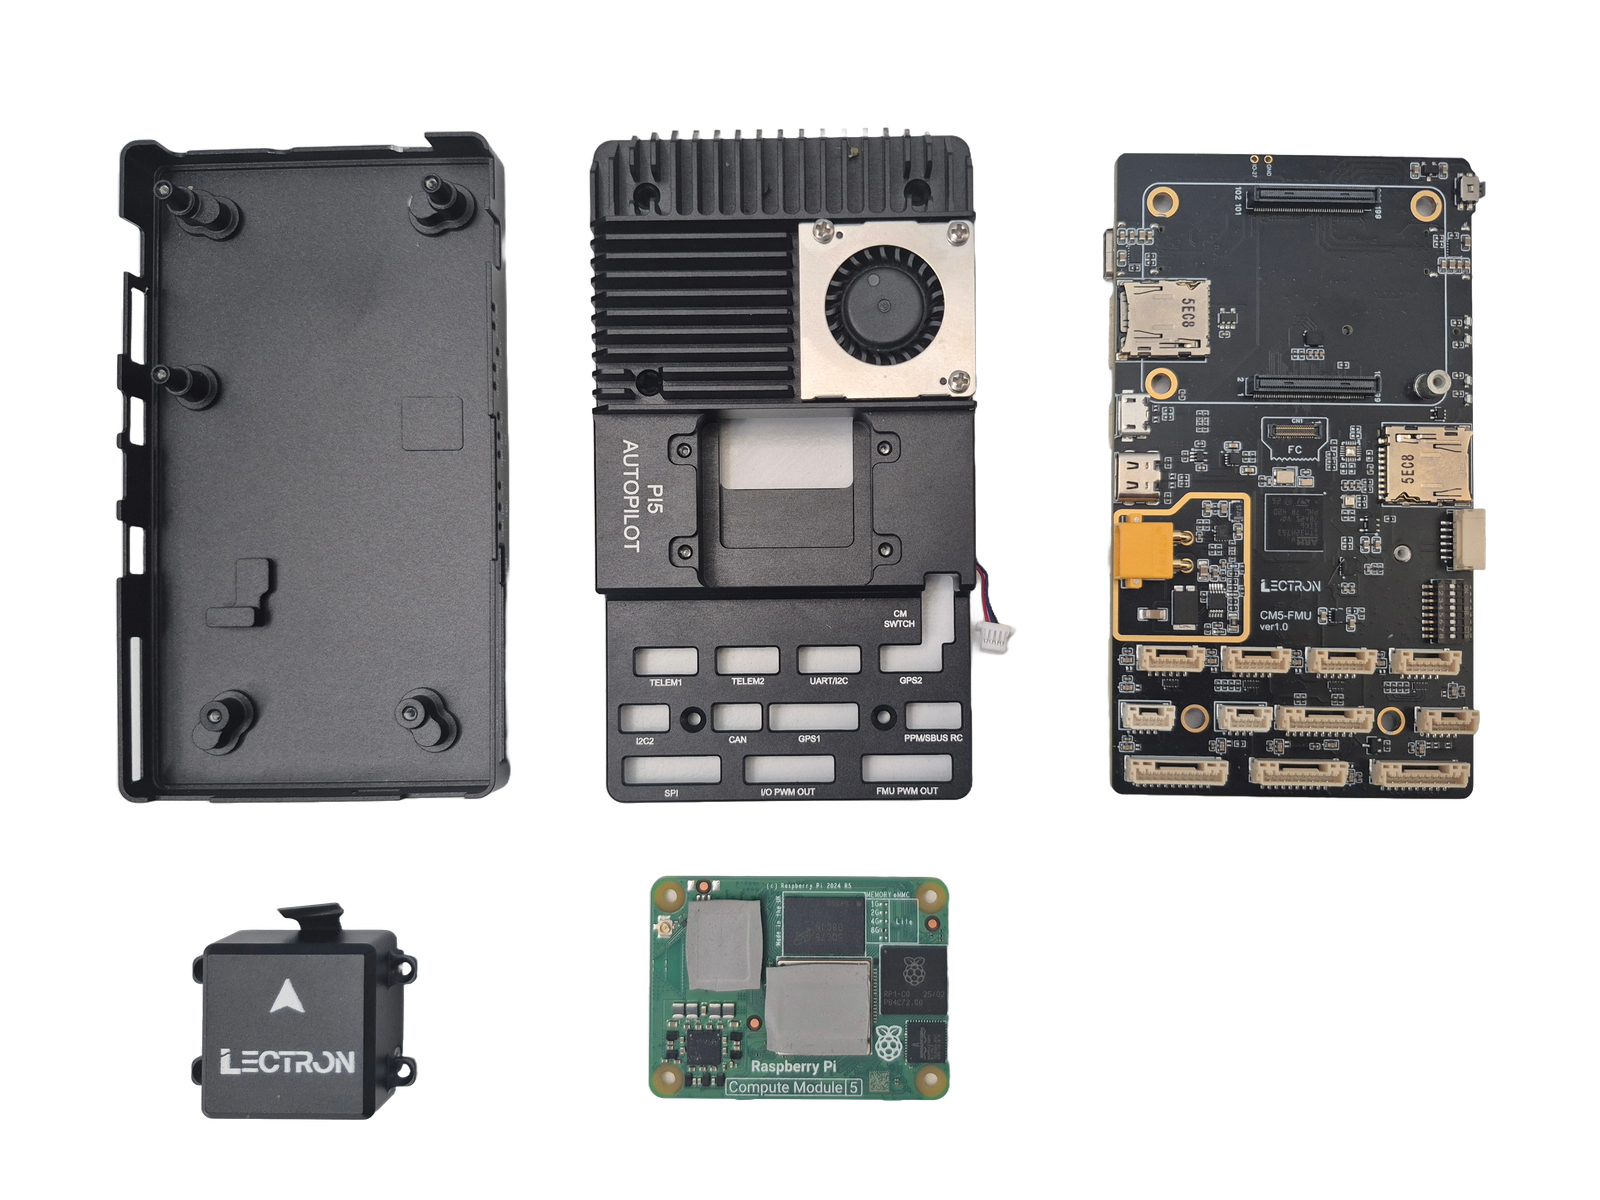
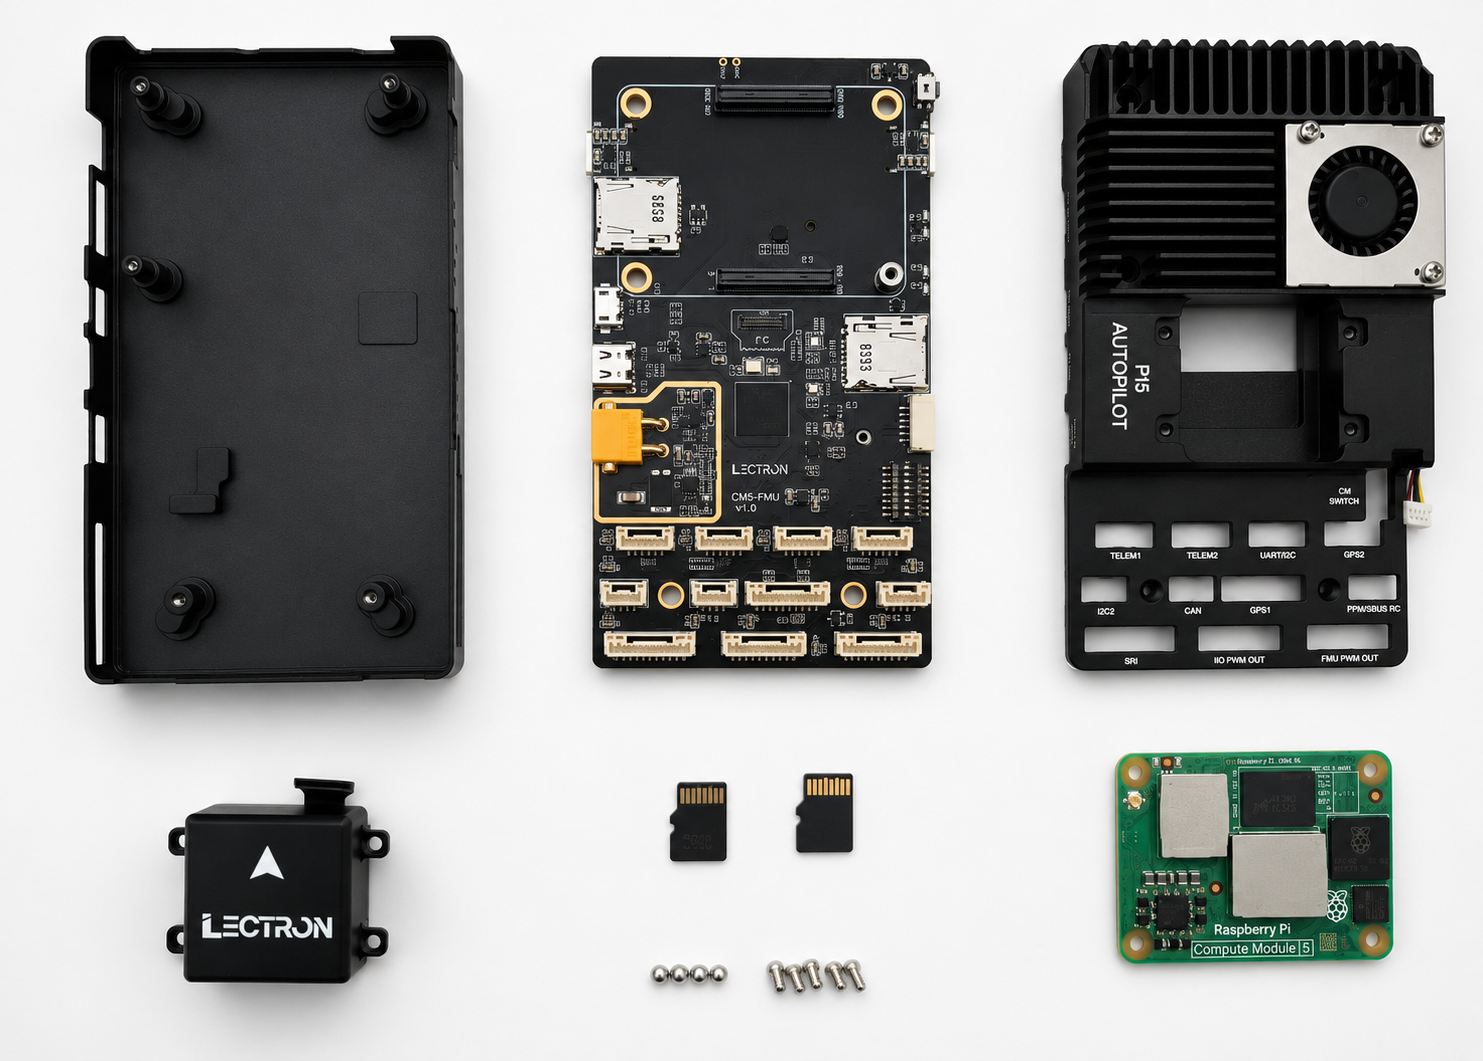
Deployed 0bcce83 with MkDocs version: 1.6.1

diff --git a/md/raspberry/setup/index.html b/md/raspberry/setup/index.html
@@ -953,6 +953,84 @@
   
 </li>
       
+        <li class="md-nav__item">
+  <a href="#fmu-firmware-installation" class="md-nav__link">
+    <span class="md-ellipsis">
+      
+        FMU Firmware Installation
+      
+    </span>
+  </a>
+  
+    <nav class="md-nav" aria-label="FMU Firmware Installation">
+      <ul class="md-nav__list">
+        
+          <li class="md-nav__item">
+  <a href="#connection-settings" class="md-nav__link">
+    <span class="md-ellipsis">
+      
+        Connection Settings
+      
+    </span>
+  </a>
+  
+</li>
+        
+          <li class="md-nav__item">
+  <a href="#1-io-chip-flashing-f103" class="md-nav__link">
+    <span class="md-ellipsis">
+      
+        1. IO Chip Flashing (F103)
+      
+    </span>
+  </a>
+  
+</li>
+        
+          <li class="md-nav__item">
+  <a href="#2-fmu-chip-flashing-h753" class="md-nav__link">
+    <span class="md-ellipsis">
+      
+        2. FMU Chip Flashing (H753)
+      
+    </span>
+  </a>
+  
+    <nav class="md-nav" aria-label="2. FMU Chip Flashing (H753)">
+      <ul class="md-nav__list">
+        
+          <li class="md-nav__item">
+  <a href="#fmu-bootloader-flashing" class="md-nav__link">
+    <span class="md-ellipsis">
+      
+        FMU Bootloader Flashing
+      
+    </span>
+  </a>
+  
+</li>
+        
+          <li class="md-nav__item">
+  <a href="#fmu-firmware-flashing" class="md-nav__link">
+    <span class="md-ellipsis">
+      
+        FMU Firmware Flashing
+      
+    </span>
+  </a>
+  
+</li>
+        
+      </ul>
+    </nav>
+  
+</li>
+        
+      </ul>
+    </nav>
+  
+</li>
+      
     </ul>
   
 </nav>
@@ -1199,6 +1277,92 @@ install <strong>rpiboot</strong> <a href="https://github.com/raspberrypi/usbboot
 <li>Finally, reconnect the power supply to restart the system.</li>
 </ul>
 </div>
+<h2 id="fmu-firmware-installation"><strong>FMU Firmware Installation</strong><a class="headerlink" href="#fmu-firmware-installation" title="Permanent link">&para;</a></h2>
+<p>This section contains step-by-step instructions for flashing the bootloader and firmware onto the <strong>FMU IO (F103)</strong> and <strong>FMU MAIN (H753)</strong> chips using <strong>STM32CubeProgrammer</strong>.</p>
+<div class="admonition danger">
+<p class="admonition-title">Wiring — Before You Start</p>
+<p>Before the flashing process, make sure the debug cable and the ST-Link / CubeProgrammer pins are connected correctly:</p>
+<div class="language-text highlight"><pre><span></span><code><span id="__span-0-1"><a id="__codelineno-0-1" name="__codelineno-0-1" href="#__codelineno-0-1"></a>SWDIO   &gt;&gt;&gt; SWDIO
+</span><span id="__span-0-2"><a id="__codelineno-0-2" name="__codelineno-0-2" href="#__codelineno-0-2"></a>SWDCLK  &gt;&gt;&gt; SWDCLK
+</span><span id="__span-0-3"><a id="__codelineno-0-3" name="__codelineno-0-3" href="#__codelineno-0-3"></a>GND     &gt;&gt;&gt; GND
+</span><span id="__span-0-4"><a id="__codelineno-0-4" name="__codelineno-0-4" href="#__codelineno-0-4"></a>NRST    &gt;&gt;&gt; NRST
+</span></code></pre></div>
+<p>The Autopilot board must be powered (via <strong>USB</strong> or <strong>XT30</strong>) before performing these steps.</p>
+</div>
+<div class="admonition note">
+<p class="admonition-title">ArduPilot vs. PX4</p>
+<p>The FMU bootloader and FMU firmware files differ depending on the autopilot software (<strong>ArduPilot</strong> or <strong>PX4</strong>). The flashing procedure remains the same — only the target files change.</p>
+</div>
+<h3 id="connection-settings"><strong>Connection Settings</strong><a class="headerlink" href="#connection-settings" title="Permanent link">&para;</a></h3>
+<p>Select the connection settings on the right-hand panel as shown below, then use the <strong>Connect</strong> button. After connecting, the target chip is shown in the <strong>bottom-right corner</strong> (<code>STM32F10x</code> for the IO chip, <code>STM32H7</code> for the FMU chip).</p>
+<p><img alt="STM32CubeProgrammer connection settings" src="../../../images/raspberry/fmu_cubeprog_connection.jpg" /></p>
+<h3 id="1-io-chip-flashing-f103"><strong>1. IO Chip Flashing (F103)</strong><a class="headerlink" href="#1-io-chip-flashing-f103" title="Permanent link">&para;</a></h3>
+<p><strong>Hardware Connections</strong></p>
+<ol>
+<li>Connect the debug cable (10-pin GHS-10) to the IO debug port.</li>
+<li>Connect the ST-Link to the computer.</li>
+</ol>
+<p><strong>STM32CubeProgrammer Steps</strong></p>
+<ol>
+<li>Launch <strong>STM32CubeProgrammer</strong>. Select the connection settings on the right panel and click <strong>Connect</strong>.</li>
+<li>Switch to the programming panel using the left-hand toolbar.</li>
+<li>After the ST-Link connects, verify that <strong>STM32F10x</strong> is displayed in the bottom-right corner.</li>
+<li>Click <strong>Full chip erase</strong> to wipe any existing code. In the confirmation pop-up (<em>"Are you sure you want to erase full chip flash memory"</em>), click <strong>OK</strong>.</li>
+<li>Select the provided <strong>IO bootloader</strong> file.</li>
+<li>Check the programming configuration options as indicated in the reference layout.</li>
+<li>Click <strong>Start Programming</strong>.</li>
+</ol>
+<p><img alt="IO bootloader installation" src="../../../images/raspberry/fmu_cubeprog_programming.jpg" /></p>
+<ol>
+<li>Once complete, dismiss the <em>"Download verified successfully"</em> and <em>"File download complete"</em> alerts by clicking <strong>OK</strong>.</li>
+<li>The <strong>IO installation is complete</strong>.</li>
+<li>For safety, disconnect from the hardware by clicking <strong>Disconnect</strong> (which replaces the <em>Connect</em> button).</li>
+</ol>
+<h3 id="2-fmu-chip-flashing-h753"><strong>2. FMU Chip Flashing (H753)</strong><a class="headerlink" href="#2-fmu-chip-flashing-h753" title="Permanent link">&para;</a></h3>
+<p>This stage installs the <strong>Bootloader</strong> first, followed by the <strong>FMU Firmware</strong>.</p>
+<p><strong>Hardware Connections</strong></p>
+<ol>
+<li>Connect the debug cable (10-pin GHS-10) to the FMU debug port.</li>
+<li>Connect the ST-Link to the computer.</li>
+</ol>
+<h4 id="fmu-bootloader-flashing"><strong>FMU Bootloader Flashing</strong><a class="headerlink" href="#fmu-bootloader-flashing" title="Permanent link">&para;</a></h4>
+<ol>
+<li>Launch <strong>STM32CubeProgrammer</strong> and click <strong>Connect</strong> (top-right).</li>
+<li>Switch to the programming panel using the left-hand toolbar.</li>
+<li>After the ST-Link connects, verify that <strong>STM32H7</strong> is displayed in the bottom-right corner.</li>
+<li>Click <strong>Full chip erase</strong> to wipe any existing code, then click <strong>OK</strong> on the confirmation pop-up.</li>
+<li>Select the provided <strong>FMU Bootloader</strong> file.</li>
+<li>Check the installation options as indicated in the reference layout.</li>
+<li>Click <strong>Start Programming</strong>.</li>
+</ol>
+<p><img alt="FMU bootloader installation" src="../../../images/raspberry/fmu_cubeprog_bootloader.jpg" /></p>
+<ol>
+<li>Once complete, close the <em>"Download verified successfully"</em> and <em>"File download complete"</em> prompts by clicking <strong>OK</strong>.</li>
+<li>The <strong>FMU Bootloader installation is complete</strong>.</li>
+<li>For safety, click <strong>Disconnect</strong> (top-right).</li>
+</ol>
+<h4 id="fmu-firmware-flashing"><strong>FMU Firmware Flashing</strong><a class="headerlink" href="#fmu-firmware-flashing" title="Permanent link">&para;</a></h4>
+<ol>
+<li>Launch <strong>STM32CubeProgrammer</strong> and click <strong>Connect</strong> (top-right).</li>
+<li>Switch to the programming panel using the left-hand toolbar.</li>
+<li>Ensure that <strong>STM32H7</strong> is displayed in the bottom-right corner as the target chip.</li>
+<li>Select the provided <strong>FMU Firmware</strong> file.</li>
+<li>
+<p>Check the programming options as shown in the reference image.</p>
+<div class="admonition danger">
+<p class="admonition-title">CRITICAL</p>
+<p>Uncheck the <strong>Full chip erase</strong> box to prevent wiping the bootloader you just installed.</p>
+</div>
+</li>
+<li>
+<p>Click <strong>Start Programming</strong> to begin flashing the firmware.</p>
+</li>
+</ol>
+<p><img alt="FMU firmware installation" src="../../../images/raspberry/fmu_cubeprog_firmware.jpg" /></p>
+<ol>
+<li>When the operation completes, confirm and close the <em>"Download verified successfully"</em> and <em>"File download complete"</em> alerts by clicking <strong>OK</strong>.</li>
+<li>The <strong>FMU Firmware installation is complete</strong>.</li>
+</ol>
 
 
 

diff --git a/md/raspberry/pinout/index.html b/md/raspberry/pinout/index.html
@@ -865,6 +865,17 @@
     <ul class="md-nav__list" data-md-component="toc" data-md-scrollfix>
       
         <li class="md-nav__item">
+  <a href="#pin-1-identification" class="md-nav__link">
+    <span class="md-ellipsis">
+      
+        Pin 1 Identification
+      
+    </span>
+  </a>
+  
+</li>
+      
+        <li class="md-nav__item">
   <a href="#pixhawk-fmu-connectors" class="md-nav__link">
     <span class="md-ellipsis">
       
@@ -1506,6 +1517,14 @@
 <p class="admonition-title">Warning</p>
 <p>Most logic pins are <strong>3.3V tolerant only</strong>. Do <strong>not</strong> apply 5V logic levels to signal pins, and never source servo/motor power from the peripheral 5V rail.</p>
 </div>
+<div class="admonition warning">
+<p class="admonition-title">Power Budget</p>
+<p>The peripheral 5V rail is shared across all connectors on each side. The <strong>total current</strong> drawn from all <strong>FMU ports</strong> combined must not exceed <strong>1.5 A</strong>. The same <strong>1.5 A</strong> total limit applies to all <strong>CM5 ports</strong> combined. Budget the current across connected peripherals accordingly.</p>
+</div>
+<hr />
+<h2 id="pin-1-identification"><strong>Pin 1 Identification</strong><a class="headerlink" href="#pin-1-identification" title="Permanent link">&para;</a></h2>
+<p>In every pinout table below, <strong>Pin 1</strong> is the first row. Use the image below to locate Pin 1 on the physical JST GH connector before wiring.</p>
+<p><img alt="JST GH Connector Pin Identification" src="../../../images/raspberry/jst_gh_pin1.png" width="420" /></p>
 <hr />
 <h2 id="pixhawk-fmu-connectors"><strong>Pixhawk FMU Connectors</strong><a class="headerlink" href="#pixhawk-fmu-connectors" title="Permanent link">&para;</a></h2>
 <h3 id="pixhawk-can"><strong>Pixhawk CAN</strong><a class="headerlink" href="#pixhawk-can" title="Permanent link">&para;</a></h3>
@@ -1567,7 +1586,7 @@
 <tr>
 <td style="text-align: center;"></td>
 <td style="text-align: center;">2</td>
-<td style="text-align: left;">PPM INPUT</td>
+<td style="text-align: left;">PPM / SBUS INPUT</td>
 <td style="text-align: center;">+3.3V</td>
 </tr>
 <tr>
@@ -1579,7 +1598,7 @@
 <tr>
 <td style="text-align: center;"></td>
 <td style="text-align: center;">4</td>
-<td style="text-align: left;">RSSI IN</td>
+<td style="text-align: left;">RSSI IN / SBUS OUT</td>
 <td style="text-align: center;">+3.3V</td>
 </tr>
 <tr>
@@ -1590,6 +1609,10 @@
 </tr>
 </tbody>
 </table>
+<div class="admonition warning">
+<p class="admonition-title">DSM Support</p>
+<p>The Lectron Autopilot product doesn't support DSM.</p>
+</div>
 <h3 id="pixhawk-i2c3-uart4"><strong>Pixhawk I2C3 / UART4</strong><a class="headerlink" href="#pixhawk-i2c3-uart4" title="Permanent link">&para;</a></h3>
 <p>Combined serial + I2C peripheral port.</p>
 <table>
@@ -1691,8 +1714,8 @@
 <tr>
 <td style="text-align: center;"></td>
 <td style="text-align: center;">7</td>
-<td style="text-align: left;">SPIX SYNC (A*)</td>
-<td style="text-align: center;">---</td>
+<td style="text-align: left;">SPIX SYNC</td>
+<td style="text-align: center;">+3.3V</td>
 </tr>
 <tr>
 <td style="text-align: center;"></td>
@@ -2217,7 +2240,7 @@
 <tr>
 <td style="text-align: center;"></td>
 <td style="text-align: center;">9</td>
-<td style="text-align: left;">BUZZER</td>
+<td style="text-align: left;">BUZZER-</td>
 <td style="text-align: center;">+3.3V</td>
 </tr>
 <tr>
@@ -2671,7 +2694,7 @@
 </tbody>
 </table>
 <h3 id="cm5-fpc1-camera-display-0"><strong>CM5 FPC1 — Camera / Display 0</strong><a class="headerlink" href="#cm5-fpc1-camera-display-0" title="Permanent link">&para;</a></h3>
-<p>22-pin 0.5mm-pitch FPC carrying MIPI port 0 (4-lane) plus camera control I2C and GPIOs.</p>
+<p>22-pin 0.5mm-pitch FPC carrying MIPI port 0 (4-lane).</p>
 <table>
 <thead>
 <tr>
@@ -2817,7 +2840,7 @@
 </tbody>
 </table>
 <h3 id="cm5-fpc2-camera-display-1"><strong>CM5 FPC2 — Camera / Display 1</strong><a class="headerlink" href="#cm5-fpc2-camera-display-1" title="Permanent link">&para;</a></h3>
-<p>22-pin 0.5mm-pitch FPC carrying MIPI port 1 (4-lane) plus ID EEPROM I2C.</p>
+<p>22-pin 0.5mm-pitch FPC carrying MIPI port 1 (4-lane).</p>
 <table>
 <thead>
 <tr>
@@ -2963,7 +2986,7 @@
 </tbody>
 </table>
 <h3 id="cm5-m2-key"><strong>CM5 M.2 Key</strong><a class="headerlink" href="#cm5-m2-key" title="Permanent link">&para;</a></h3>
-<p>M.2 M-Key slot (PCIe / NVMe storage).</p>
+<p>M.2 M-Key 2230 or 2242 slot (PCIe / NVMe storage).</p>
 <table>
 <thead>
 <tr>
@@ -3111,8 +3134,12 @@
 </tbody>
 </table>
 <div class="admonition danger">
-<p class="admonition-title">Warning</p>
+<p class="admonition-title">Reverse Polarity</p>
 <p>Observe correct polarity on the XT30 input. Input voltage must stay within <strong>+12V to +28V</strong>; reverse polarity or over-voltage may permanently damage the board.</p>
+</div>
+<div class="admonition danger">
+<p class="admonition-title">Use the Supplied XT30 Cable Only</p>
+<p>Power the board exclusively through the <strong>XT30 cable supplied by Lectron</strong>. Using a third-party or incorrectly wired cable may damage the onboard regulator stage. This cable compansate voltage ripples that are caused by motors.</p>
 </div>
 <hr />
 <div class="admonition info">